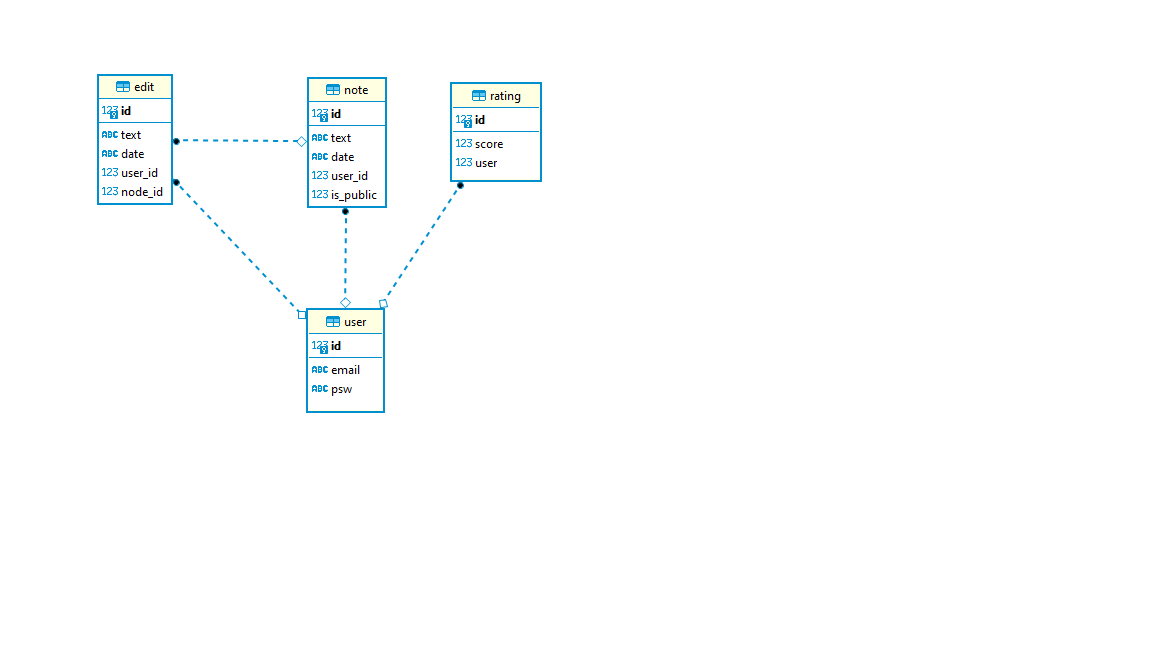
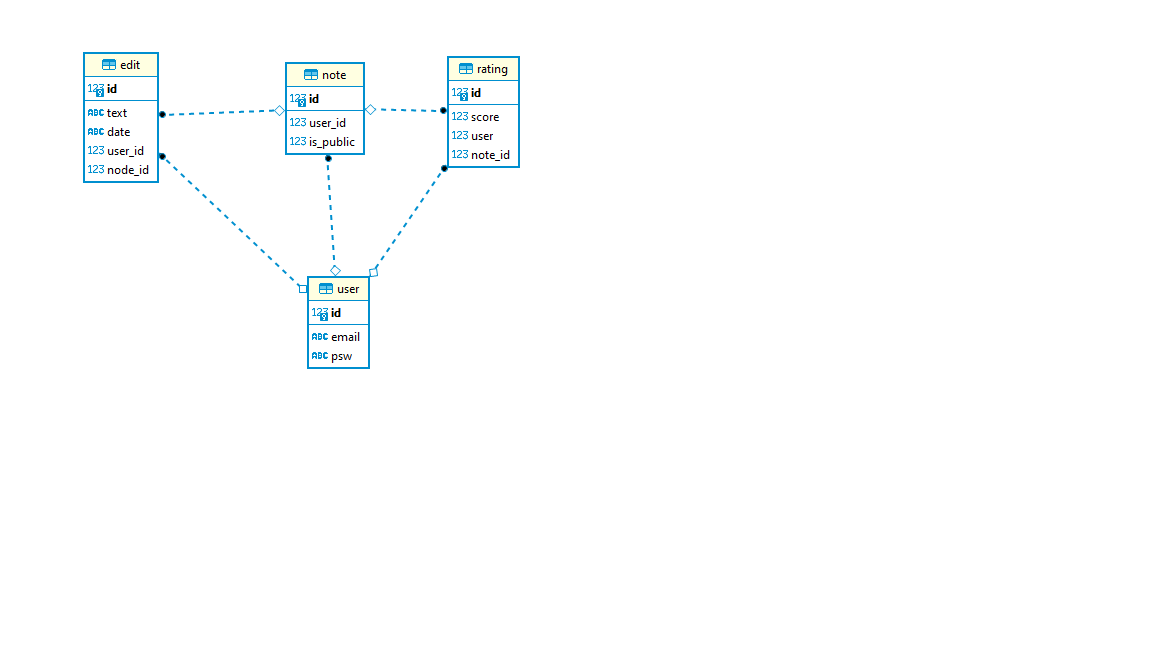
Edited readme for project description

diff --git a/noteTaker/models.py b/noteTaker/models.py
@@ -7,8 +7,6 @@ from . import db
 
 class Note(db.Model):
     id = db.Column(db.Integer, primary_key = True)
-    text = db.Column(db.String(10000))
-    date = db.Column(db.DateTime(timezone=True), default=func.now())
     user_id = db.Column(db.Integer, db.ForeignKey("user.id"))
     is_public = db.Column(db.Boolean)
 
@@ -22,6 +20,7 @@ class Rating(db.Model):
     id = db.Column(db.Integer, primary_key = True)
     score = db.Column(db.Integer)
     user = db.Column(db.Integer, db.ForeignKey("user.id"))
+    note_id = db.Column(db.Integer, db.ForeignKey("note.id"))
 
 class Edit(db.Model):
     id = db.Column(db.Integer, primary_key = True)

diff --git a/README.md b/README.md
@@ -7,30 +7,46 @@ Built using flask
 
 To run all is needed is to clone this repository
 make sure python is installed
-run the app.py file and then visit the local host file from there
 
-SECURITY checks in place
+```sh
+python main.py
+```
 
-    Stateless cookie user authentication, using the flask_login module.
-    Cookie auth was picked for this project as it is user friendly.
+## SECURITY checks in place
+
+    Stateless cookie user authentication, using the flask_login module. HTTP Cookie based credentials only was picked for this over a local storage to help prevent session hijacking
 
     There are several threats that can happen when using this method of auth, it does leave issues and risk of Cross-site Request Forgery(CSRF), this is when a malicious agent is able to take the stored data from a registered user by imitatiating what appears to be an http request from a legit site.
 
-    Password hashing is done with sha256 method of hash
+    Password hashing is done with sha256 method of hash. Hashing is a method to secure data in a format that is unreadable unless you have access to the key. If the database of users was comprimised the hacker would not gain access to clear text passwords and would be unable to read them as they dont have this key.
 
 
-Vulnerabilities
+## Vulnerabilities
 
     xss - currently the notes writing is not secured so a user writing and storing the notes in our database could launch an attack in which an attacker injects malicious executable scripts into the code of a trusted application or website.
 
-    Brute force - Currently the password requirement is very small all is needed is that it has to be over 7 characters long, without more requirements it would be vulnerable to brute forcing as a malicious user could just try over and over and over every possible combination until they are logged in under another users account.
+    Brute force - brute forcing as a malicious user could just try over and over and over every possible combination until they are logged in under another users account. I could implement a Rate limiter which will check if someone is constantly triggering the backed from the same IP address, this could also help with Web scrapping and DoS. For a deployment Cloudflare could be implemented as my rate limiter.
 
-    User login email is not Anonymous - The website will give a warning if you attempt a login with an email that isnt in our database. So an attacker has access to seeing what emails are registered,
+    User login error is not Anonymous - The website login error is not stripped down or minimized. So the attacker can see if the email is in our database or not and this makes it easy for attackers to go through large pawning lists.
 
-    Stateless auth - there is no way of logging a user out on the backend must wait for the user to log out on the front end or the session end on its own which may take time leaving it open for malicious agents.
+    Stateless auth - there is no way of logging a user out on the backend and must wait for the end of the session which will take time leaving it open for malicious agents.
 
     Cross-site Request Forgery(CSRF) -  a malicious agent is able to take the stored data from a registered user by imitatiating what appears to be an http request from a legit site.
 
+### Threat Model
+![](images/security.png)
 
-DATABASE
+## DATABASE
+
+### Normalform 1
+- :white_check_mark: no compository attributes
+
+- :white_check_mark: no multi-valued attribute
+
+### Normalform 2
+- :white_check_mark: no partial dependency
+
+### Normalform 3
+- :white_check_mark: no transitive dependencies
+
 ![](images/database.png)
